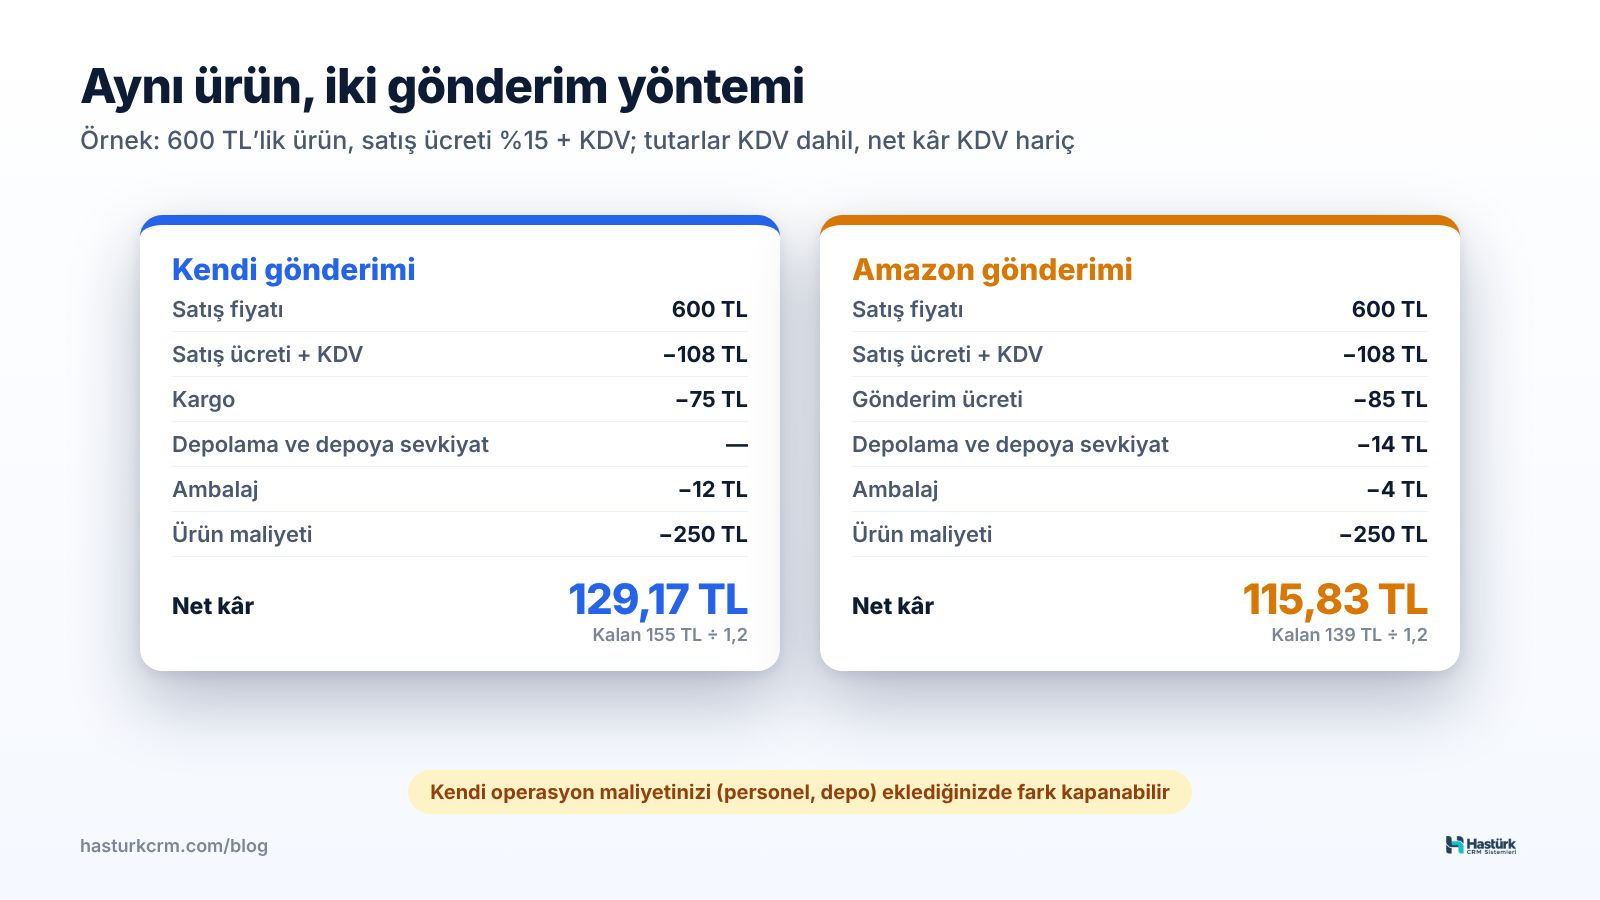
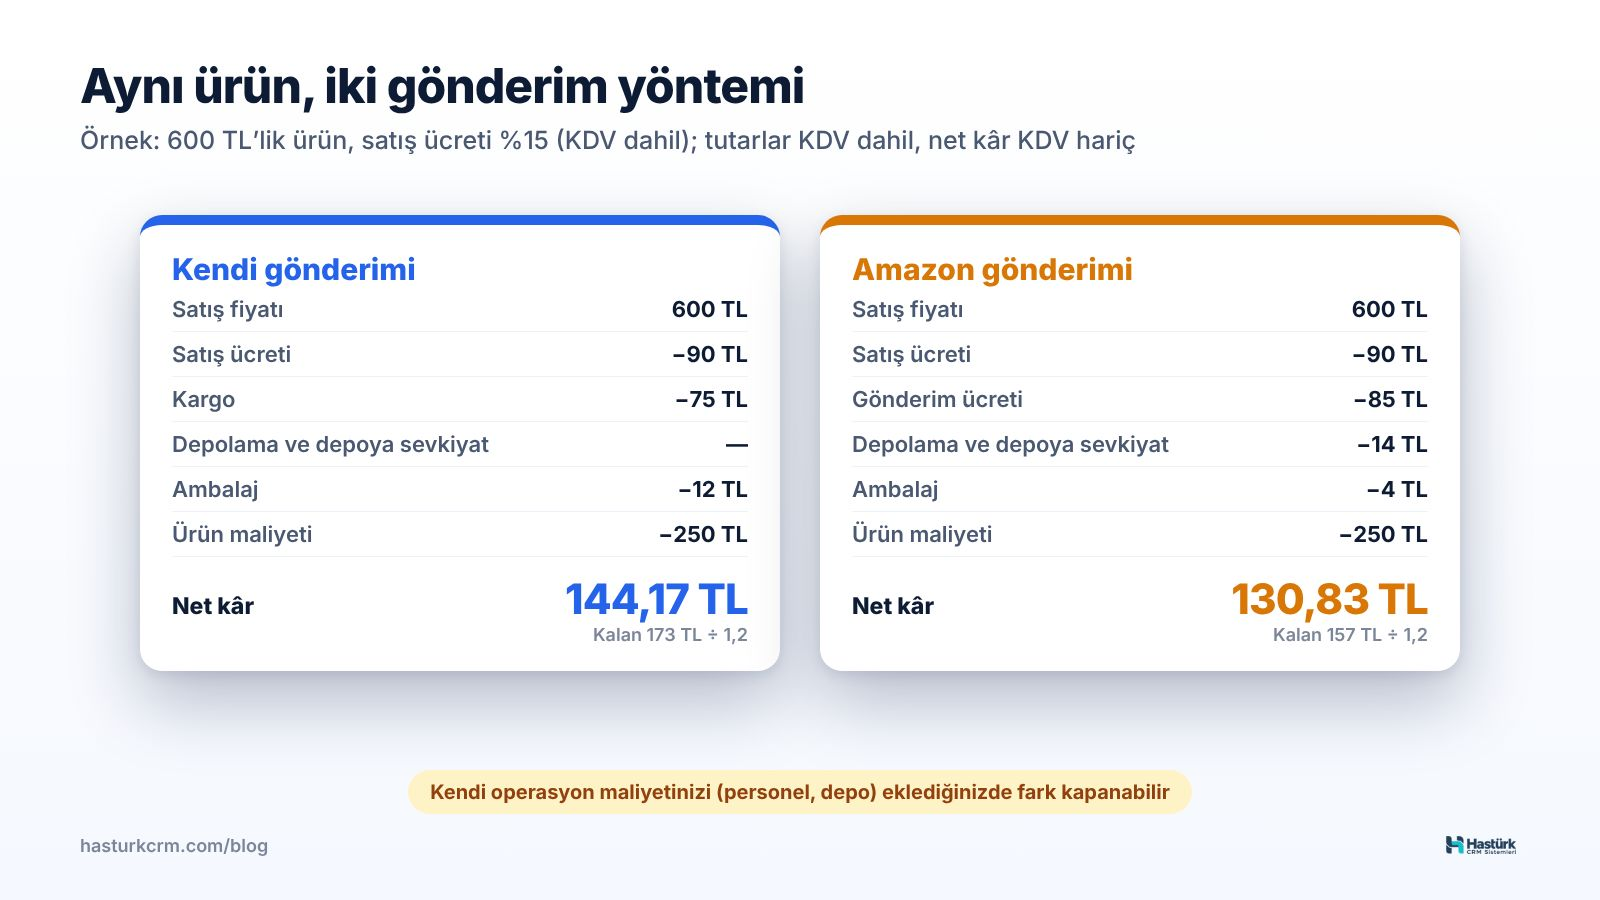
Komisyon KDV dahil (Trendyol, Amazon, Çiçeksepeti); paket / kargo ve takılma düzeltmeleri (#224)
* Ara kayıt: Trendyol, Amazon, Çiçeksepeti komisyon oranı KDV dahil

Claude-Session: https://claude.ai/code/session_01XRDvxG9AZmP7zbj5e9CVqs

* Ara kayıt: sipariş kârı testi Trendyol KDV dahil orana göre

Claude-Session: https://claude.ai/code/session_01XRDvxG9AZmP7zbj5e9CVqs

* Ara kayıt: Amazon / Çiçeksepeti blog hesapları KDV dahil oranla; yayımlanmış yazı düzeltmesi

Claude-Session: https://claude.ai/code/session_01XRDvxG9AZmP7zbj5e9CVqs

* Ara kayıt: Amazon / Çiçeksepeti kâr görselleri (yenileniyor)

Claude-Session: https://claude.ai/code/session_01XRDvxG9AZmP7zbj5e9CVqs

* Ara kayıt: paket / kargo, taşıma işareti, dış istek zaman aşımı ve ödeme başlatma düzeltmeleri

Claude-Session: https://claude.ai/code/session_01XRDvxG9AZmP7zbj5e9CVqs

---------

diff --git a/panel/src/db.js b/panel/src/db.js
@@ -384,6 +384,11 @@ export const MIGRATIONS = [
   // Sistem hızı: istek başına veritabanı sorgu sayısı ve sorguların beklettiği toplam süre (bkz. meter.js)
   'ALTER TABLE perf_stats ADD COLUMN db_n INTEGER NOT NULL DEFAULT 0',
   'ALTER TABLE perf_stats ADD COLUMN db_ms INTEGER NOT NULL DEFAULT 0',
+  // Trendyol, Amazon ve Çiçeksepeti komisyon oranı KDV dahildir (üzerine %20 eklenmez): KDV dahil çevriminde %20 eklenmiş varsayılan
+  // oran kayıtlıysa (elle değiştirilmemişse) eski değerine döner
+  "UPDATE settings SET v = json_set(v, '$.trendyol', 20) WHERE k = 'commission' AND json_valid(v) AND json_extract(v, '$.trendyol') = 24",
+  "UPDATE settings SET v = json_set(v, '$.amazon', 15) WHERE k = 'commission' AND json_valid(v) AND json_extract(v, '$.amazon') = 18",
+  "UPDATE settings SET v = json_set(v, '$.ciceksepeti', 20) WHERE k = 'commission' AND json_valid(v) AND json_extract(v, '$.ciceksepeti') = 24",
 ];
 
 // Tüm tablo adları (ana panelin yerel / ortak veritabanı ayrımı için, bkz. router.js)
@@ -496,7 +501,7 @@ export const DEFAULT_SETTINGS = {
   fx: { source: 'tcmb', kind: 'sell', mode: 'daily', threshold: 0.5, rounding: 'none', margin: 0 },
   // Müşteri sorularına hazır cevaplar
   answer_templates: ['Merhaba, ilginiz için teşekkür ederiz. ', 'Merhaba, ürünümüz stoklarımızda mevcuttur; siparişiniz aynı gün kargoya verilir. İyi günler dileriz.'],
-  commission: { ikas1: 0, ikas2: 0, trendyol: 24, hepsiburada: 21.6, pttavm: 14.4, n11: 18, idefix: 18, pazarama: 18, amazon: 18, ciceksepeti: 24, koctas: 18, shopify: 0, woocommerce: 0, opencart: 0, etsy: 7.8, teknosa: 18, boyner: 24, pasaj: 14.4, trendyolgo: 18, getir: 24, yemeksepeti: 24, ebay: 15.6, ozon: 18, ticimax: 0, ideasoft: 0, tsoft: 0 },
+  commission: { ikas1: 0, ikas2: 0, trendyol: 20, hepsiburada: 21.6, pttavm: 14.4, n11: 18, idefix: 18, pazarama: 18, amazon: 15, ciceksepeti: 20, koctas: 18, shopify: 0, woocommerce: 0, opencart: 0, etsy: 7.8, teknosa: 18, boyner: 24, pasaj: 14.4, trendyolgo: 18, getir: 24, yemeksepeti: 24, ebay: 15.6, ozon: 18, ticimax: 0, ideasoft: 0, tsoft: 0 },
   shipping: { ikas1: 0, ikas2: 0, trendyol: 0, hepsiburada: 0, pttavm: 0 },
   // Tüm gider tutarları KDV dahil girilir (cepten çıkan tutar); üstüne KDV eklenmez. false: eski kurulum (KDV hariç girilmiş, hesapta %20 eklenir)
   costs_vat_incl: true,
@@ -554,6 +559,7 @@ export const DEFAULT_SETTINGS = {
 // kayıtlı komisyon / kargo / hizmet bedeli / ek kesinti ve ürüne elle girilen komisyon 1,2 ile çarpılır (kâr değişmez); kanaldan
 // gelen ilan komisyonu (önceden KDV'si ayrılarak saklanıyordu) de KDV dahile çevrilir. Aynı anda iki istek çevirmesin diye işaret önce alınır.
 const VAT_ONCE = 'once:vat_incl_1', vatDone = new WeakSet();
+const VAT_INCL_RATE = /^(trendyol(?!go)|amazon|ciceksepeti)\d*$/;
 async function vatInclOnce(db, rows) {
   if (vatDone.has(db)) return false;
   if (rows.some((r) => r.k === VAT_ONCE)) { vatDone.add(db); return false; }
@@ -567,15 +573,18 @@ async function vatInclOnce(db, rows) {
       for (const k of ['commission', 'shipping', 'service_fee', 'fee_rate']) {
         const v = get(k);
         if (!v || typeof v !== 'object') continue;
-        const g = Object.fromEntries(Object.entries(v).map(([c, x]) => [c, x === '' || x == null || !Number.isFinite(Number(x)) ? x : Math.round(Number(x) * 120) / 100]));
+        // Trendyol, Amazon, Çiçeksepeti komisyon oranı zaten KDV dahil (çevrilmez)
+        const g = Object.fromEntries(Object.entries(v).map(([c, x]) => [c, x === '' || x == null || !Number.isFinite(Number(x)) || (k === 'commission' && VAT_INCL_RATE.test(c)) ? x : Math.round(Number(x) * 120) / 100]));
         st.push(db.prepare('INSERT INTO settings (k, v) VALUES (?, ?) ON CONFLICT (k) DO UPDATE SET v = excluded.v').bind(k, JSON.stringify(g)));
       }
-      st.push(db.prepare("UPDATE listings SET commission = ROUND(commission * 1.2, 2) WHERE commission IS NOT NULL AND COALESCE(commission_src, 'manual') != 'api'"));
+      st.push(db.prepare(`UPDATE listings SET commission = ROUND(commission * 1.2, 2) WHERE commission IS NOT NULL AND COALESCE(commission_src, 'manual') != 'api'
+        AND NOT (channel LIKE 'trendyol%' AND channel NOT LIKE 'trendyolgo%') AND channel NOT LIKE 'amazon%' AND channel NOT LIKE 'ciceksepeti%'`));
     }
     // Trendyol (Go hariç) ilan oranı, Trendyol çevrimi (once:ty_comm_incl_1, init'te) yapıldıysa zaten KDV dahil sipariş satırından
     // yeniden hesaplandı: bu çevrimden önce açılmamış veritabanında üzerine ikinci kez %20 eklenmesin
     st.push(db.prepare(`UPDATE listings SET commission = ROUND(commission * 1.2, 2) WHERE commission IS NOT NULL AND commission_src = 'api'
-      AND NOT (channel LIKE 'trendyol%' AND channel NOT LIKE 'trendyolgo%' AND EXISTS (SELECT 1 FROM settings WHERE k = 'once:ty_comm_incl_1'))`));
+      AND NOT (channel LIKE 'trendyol%' AND channel NOT LIKE 'trendyolgo%' AND EXISTS (SELECT 1 FROM settings WHERE k = 'once:ty_comm_incl_1'))
+      AND channel NOT LIKE 'amazon%' AND channel NOT LIKE 'ciceksepeti%'`));
     st.push(db.prepare("INSERT INTO settings (k, v) VALUES ('costs_vat_incl', 'true') ON CONFLICT (k) DO UPDATE SET v = excluded.v"));
     await db.batch(st);
     return true;

diff --git a/panel/src/api.js b/panel/src/api.js
@@ -307,6 +307,7 @@ async function orderAction(env, db, id, action, b, ctx, user) {
     return { ok: true, message: r.message };
   }
   if (action === 'split') {
+    if (!live) fail(400, 'Bu siparişte işlem yapılamaz');
     if (o.packages.some((p) => p.carrier_ref && p.status === 'open')) fail(400, 'Kargo entegratöründe gönderisi açılmış paket var; yeniden bölmek için önce paket menüsünden gönderiyi iptal edin');
     const groups = (b.groups || []).map((g) => ({ desi: num(g.desi, 0) || null, items: (g.items || []).map((x) => ({ line_id: String(x.line_id), qty: Math.round(num(x.qty)) })).filter((x) => x.qty > 0) })).filter((g) => g.items.length);
     if (groups.length < 1) fail(400, 'En az bir paket gerekli');
@@ -342,6 +343,7 @@ async function orderAction(env, db, id, action, b, ctx, user) {
     return { ok: true, message: `${groups.length} paket oluşturuldu` };
   }
   if (action === 'cargo') {
+    if (!live) fail(400, 'Bu siparişte işlem yapılamaz');
     // Kargo firması seç / değiştir (seçenekler kanaldan gelir). İsteğe bağlı: bu kanalda varsayılan yap
     const cargo = b.cargo && { id: str(b.cargo.id), name: str(b.cargo.name) };
     if (!cargo || !cargo.name) fail(400, 'Kargo firması seçin');
@@ -391,7 +393,7 @@ async function orderAction(env, db, id, action, b, ctx, user) {
     if (!ch || !ch.enabled || !ch.repack) fail(400, 'Bu kanalda desteklenmiyor');
     if (pkg.status === 'shipped') fail(400, 'Kargoya verilmiş paket yeniden hazırlanamaz');
     const r = await ch.repack(o, pkg);
-    await run(db, "UPDATE packages SET remote_id = ?, remote_status = ?, barcode = '', tracking = '', cargo_company = ?, cargo_code = NULL, agreement = NULL, packed_at = ?, error = ? WHERE id = ?",
+    await run(db, "UPDATE packages SET remote_id = ?, remote_status = ?, barcode = '', tracking = '', cargo_company = ?, cargo_code = NULL, cargo_applied = NULL, agreement = NULL, packed_at = ?, error = ? WHERE id = ?",
       r.remoteId, r.remoteStatus || '', r.cargoCompany || '', Date.now(), r.error || null, pkg.id);
     await clearLabel(db, pkg.id);
     await event(db, o, 'pack', user, `Paket ${pkg.no}: ikas Kargo ile yeniden hazırlandı`);
@@ -404,12 +406,15 @@ async function orderAction(env, db, id, action, b, ctx, user) {
       if (!ch || !ch.enabled || !ch.cancelPackage) fail(400, `${ch ? ch.name : 'Kanal'} paketi API ile iptal edilemiyor; kanal panelinden yapın`);
       await ch.cancelPackage(o, pkg);
     }
-    await run(db, "UPDATE packages SET remote_id = NULL, remote_status = NULL, packed_at = NULL, barcode = '', tracking = '', error = NULL WHERE id = ?", pkg.id);
+    // Seçilen kargo firması tercih olarak kalır (cargo_code), yeni pakete yeniden uygulanır
+    await run(db, "UPDATE packages SET remote_id = NULL, remote_status = NULL, packed_at = NULL, barcode = '', tracking = '', error = NULL, cargo_applied = NULL WHERE id = ?", pkg.id);
     await clearLabel(db, pkg.id);
     await event(db, o, 'cancel-package', user, `Paket ${pkg.no}`);
     return { ok: true, message: `Paket ${pkg.no} paketlemesi iptal edildi` };
   }
   if (action === 'ship') {
+    // Ekran açıkken kanalda iptal / iade / teslim edilmiş siparişte kargo bildirimi yapılmaz
+    if (!live) fail(400, `Sipariş ${o.status === 'cancelled' ? 'iptal edilmiş' : o.status === 'returned' ? 'iade edilmiş' : 'teslim edilmiş'}; kargoya verilemez`);
     o = await ensurePackages(db, ch, o);
     const pkg = b.package_id ? o.packages.find((p) => p.id === Number(b.package_id)) : o.packages.find((p) => p.status === 'open');
     if (!pkg) fail(400, 'Gönderilecek açık paket yok');
@@ -505,6 +510,7 @@ async function orderAction(env, db, id, action, b, ctx, user) {
     return { ok: true };
   }
   if (action === 'label') {
+    if (!live && !o.packages.length) fail(400, 'Bu siparişte işlem yapılamaz'); // kapanmış siparişte yeni paket açılmaz (eski etiket yeniden yazdırılabilir)
     o = await ensurePackages(db, ch, o);
     let pkg = b.package_id ? o.packages.find((p) => p.id === Number(b.package_id)) : o.packages[0];
     if (!pkg) fail(404, 'Paket bulunamadı');
@@ -1572,6 +1578,7 @@ export async function api(req, env, ctx, db, path, user = { id: 0, name: 'Yönet
         let o = await loadOrder(db, id);
         const ch = await channel(env, db, o.channel);
         if (b.fetch && o.status === 'new') { await acceptOrder(db, ch, o, user); o = await loadOrder(db, id); }
+        if (['cancelled', 'returned', 'delivered'].includes(o.status) && !o.packages.some((p) => p.has_label)) throw new Error(`${o.order_number}: iptal / iade / teslim edilmiş sipariş, etiket alınmadı`);
         o = await ensurePackages(db, ch, o);
         const labels = [];
         // Etiket alınırken paketlenmemiş paketler önce kanalda kargoya hazırlanır

diff --git a/panel/src/mainpanel.js b/panel/src/mainpanel.js
@@ -134,7 +134,11 @@ const CHUNK = { product_images: 20 };
 const STEP_MS = 20e3;
 export async function migrateStep(ctx, env, local, now = Date.now) {
   const st = (await ctx.storage.get('mig')) || { ti: 0, after: 0, rows: 0, started: now() };
-  if (st.done) return st;
+  // Bitti ama ana veritabanına "taşındı" işareti yazılamadıysa yeniden denenir (yoksa çalışan eski kopyadan okumaya devam eder)
+  if (st.done) {
+    if (!st.flagged) { await markMigrated(env, st); await ctx.storage.put('mig', st); await edgeDrop(MAIN_FLAG, env.DB).catch(() => {}); }
+    return st;
+  }
   const remote = meter(env.DB), sql = ctx.storage.sql, t0 = now();
   if (!st.ti && !st.after) await init(local);
   const tables = LOCAL_TABLES;
@@ -164,14 +168,20 @@ export async function migrateStep(ctx, env, local, now = Date.now) {
   if (st.ti >= tables.length) {
     st.done = true; st.at = now();
     await ctx.storage.put('mig', st);
-    await env.DB.prepare('INSERT INTO settings (k, v) VALUES (?, ?) ON CONFLICT (k) DO UPDATE SET v = excluded.v').bind(MAIN_FLAG, JSON.stringify({ at: st.at, rows: st.rows, hint: hintOf(env), skipped: st.skipped || [] })).run();
+    await markMigrated(env, st);
+    await ctx.storage.put('mig', st);
     if (st.skipped && st.skipped.length) {
       const { recordError } = await import('./errors.js');
       await recordError(env.DB, { slug: '', firm: '', source: 'server', message: `Ana panel taşıma: ${st.skipped.length} tablonun bir kısmı kopyalanamadı`, action: 'taşıma', detail: { skipped: st.skipped } }).catch(() => {});
     }
     await edgeDrop(MAIN_FLAG, env.DB).catch(() => {});
+    return { ...st, justDone: true };
   }
   return st;
+}
+async function markMigrated(env, st) {
+  await env.DB.prepare('INSERT INTO settings (k, v) VALUES (?, ?) ON CONFLICT (k) DO UPDATE SET v = excluded.v').bind(MAIN_FLAG, JSON.stringify({ at: st.at, rows: st.rows, hint: hintOf(env), skipped: st.skipped || [] })).run();
+  st.flagged = true;
 }
 const pct = (st) => (st.done ? 100 : Math.min(99, Math.round(((st.ti || 0) / Math.max(1, LOCAL_TABLES.length)) * 100)));
 
@@ -200,6 +210,7 @@ export class MainPanel {
     if (this.ok) return true;
     const st = await this.ctx.storage.get('mig');
     if (st && st.done) {
+      if (!st.flagged && !(await this.ctx.storage.getAlarm())) await this.ctx.storage.setAlarm(Date.now()); // işaret yeniden yazılsın
       await backCopy(this.ctx, this.db.remote).catch((e) => console.error('bildirimler ana veritabanına kopyalanamadı', e));
       this.ok = true; this.fresh(); return true;
     }
@@ -213,7 +224,10 @@ export class MainPanel {
     const st = await migrateStep(this.ctx, this.env, this.local).catch((e) => { console.error('ana panel taşıma hatası', e); return null; });
     if (!st) return void (await this.ctx.storage.setAlarm(Date.now() + 30e3));
     if (!st.done) await this.ctx.storage.setAlarm(Date.now() + 50);
-    else { await this.ctx.storage.put('g:notices', Date.now()); this.ok = true; this.fresh(); console.log('ana panel taşındı', JSON.stringify(st)); }
+    else {
+      // Taşıma şimdi bittiyse yerel bildirimler ana veritabanındakinin kopyası: geri kopyalama gerekmez
+      if (st.justDone) await this.ctx.storage.put('g:notices', Date.now());
+      this.ok = true; this.fresh(); console.log('ana panel taşındı', JSON.stringify(st)); }
   }
   async fetch(req) {
     const url = new URL(req.url), env = { ...this.env, DB: this.db };

diff --git a/panel/src/billing.js b/panel/src/billing.js
@@ -137,7 +137,13 @@ async function start(env, db, order, origin) {
   const itemName = order.kind === 'stores' ? `Hastürk CRM ${order.qty} ek mağaza (${order.period} gün)` : order.kind === 'charge' ? `Hastürk CRM ${order.plan || 'abonelik'} ödemesi${Number(order.period) ? ` (${order.period} ay)` : ''}`
     : up ? `Hastürk CRM ${PLANS[up.from].name} → ${PLANS[order.plan].name} paket yükseltme (${up.days} gün)` : '';
   // Taksit kısıtlanmaz: bankanın sunduğu tüm taksit seçenekleri ödeme sayfasında görünür (bkz. plans.js → INSTALLMENTS)
-  const r = await initCheckout(env, { ...order, buyer: JSON.parse(order.buyer), name, ...(itemName ? { itemName } : {}) }, callback);
+  let r;
+  try { r = await initCheckout(env, { ...order, buyer: JSON.parse(order.buyer), name, ...(itemName ? { itemName } : {}) }, callback); } catch (e) {
+    // Ödeme sayfası açılamadı: sipariş "başarısız" (sahipsiz bekleyen kayıt kalmaz), kullanıcıya anlaşılır mesaj (502)
+    const why = /fetch failed|bağlantı hatası|zaman aşımı|network/i.test(String(e.message)) ? 'ödeme sistemine şu an ulaşılamıyor' : String(e.message || 'bilinmeyen hata').slice(0, 200);
+    await run(db, "UPDATE sales_orders SET status = 'failed', error = ?, updated_at = ? WHERE id = ? AND status = 'pending'", why, Date.now(), order.id).catch(() => {});
+    throw new HttpError(502, `Ödeme başlatılamadı: ${why}. Biraz sonra tekrar deneyin.`);
+  }
   await run(db, 'UPDATE sales_orders SET token = ?, updated_at = ? WHERE id = ?', r.token, Date.now(), order.id);
   return { ok: true, url: r.url, order: order.id };
 }
@@ -491,7 +497,7 @@ export async function payLink(req, env) {
   try {
     const r = await start(env, env.DB, { ...o, status: 'pending' }, new URL(req.url).origin);
     return new Response(null, { status: 303, headers: { Location: r.url, 'Cache-Control': 'no-store' } });
-  } catch (e) { return resultPage('Ödeme başlatılamadı', `${esc(e.message)}. Biraz sonra tekrar deneyin.`, { status: 502 }); }
+  } catch (e) { return resultPage('Ödeme başlatılamadı', esc(e instanceof HttpError ? e.message : `${e.message}. Biraz sonra tekrar deneyin.`), { status: 502 }); }
 }
 async function completeCharge(env, order, { method, note }) {
   const buyer = JSON.parse(order.buyer || '{}'), months = Number(order.period) || 0;

diff --git a/panel/src/util.js b/panel/src/util.js
@@ -113,13 +113,17 @@ export async function http(url, { method = 'GET', headers = {}, body: b, timeout
       if (i < tries) { await sleep(800 * i); continue; }
       throw new Error(`${method} ${shortUrl(url)}: bağlantı hatası (${e.name === 'AbortError' ? 'zaman aşımı' : e.message})`);
     }
-    clearTimeout(t);
-    if ((res.status === 429 || res.status >= 500) && i < tries) { await sleep(1500 * i); continue; }
+    if ((res.status === 429 || res.status >= 500) && i < tries) { clearTimeout(t); res.body?.cancel().catch(() => {}); await sleep(1500 * i); continue; }
     if (raw) {
+      clearTimeout(t);
       if (!res.ok) throw new Error(`${method} ${shortUrl(url)}: HTTP ${res.status} ${htmlReason(await res.text(), res.status).slice(0, 300)}`);
       return res;
     }
-    const text = await res.text();
+    // Süre gövde okunana kadar geçerli: başlığı gönderip gövdede duran sunucu senkronu (ve kilidi) asılı bırakmasın
+    let text;
+    try { text = await res.text(); } catch (e) {
+      throw new Error(`${method} ${shortUrl(url)}: yanıt okunamadı (${e.name === 'AbortError' || ctl.signal.aborted ? 'zaman aşımı' : e.message})`);
+    } finally { clearTimeout(t); }
     let data = text;
     if (/json/i.test(res.headers.get('content-type') || '') || /^\s*[[{]/.test(text)) { try { data = JSON.parse(text); } catch { /* düz metin */ } }
     if (!res.ok) {

diff --git a/panel/src/blogseed.js b/panel/src/blogseed.js
@@ -24,8 +24,11 @@ export const REVISIONS = {
[3 lines of base64/hex data omitted]
+  // 2: Amazon komisyon oranı da KDV dahildir (üzerine KDV eklenmez); kontrol listesindeki fatura maddesi sadeleşti
[1 lines of base64/hex data omitted]
 };
-const REV = 'once:blog_rev_1';
+// Yeni düzeltme eklenince sürüm artar: düzeltmeler yeniden taranır (önceki düzeltmeler gövde değiştiği için atlanır)
+export const REV = 'once:blog_rev_2';
 const FIELDS = ['title', 'summary', 'seo_title', 'seo_desc'];
 const sha256 = async (s) => [...new Uint8Array(await crypto.subtle.digest('SHA-256', new TextEncoder().encode(s)))].map((x) => x.toString(16).padStart(2, '0')).join('');
 

diff --git a/panel/src/router.js b/panel/src/router.js
@@ -31,7 +31,7 @@ export function isGlobal(sql) {
 // Ana veritabanına da yazılanlar: ayar ve kanal bağlantısı değişiklikleri. Bu panele özel / anlık ayarlar hariç (şema sürümü,
 // tek seferlik işaretler, kilitler, giriş denemeleri, doğrulama kodları)
 const MIRROR = /^\s*(INSERT|UPDATE|DELETE|REPLACE)\b/i, MIRROR_T = new Set(['settings', 'channel_config']);
-const NO_MIRROR = /schema_v|schema_n|once:|_lock\b|login_fail:|tfa_fail:|mailcode|pwreset|errrep/;
+const NO_MIRROR = /schema_v|schema_n|once:|_lock\b|\block:|login_fail:|tfa_fail:|mailcode|pwreset|errrep/;
 export const mirrorable = (sql, args = []) => MIRROR.test(sql) && refsOf(sql).some((r) => MIRROR_T.has(r))
   && !NO_MIRROR.test(sql + ' ' + args.filter((a) => typeof a === 'string').map((a) => a.slice(0, 80)).join(' '));
 

diff --git a/panel/src/channels/demo.js b/panel/src/channels/demo.js
@@ -236,7 +236,7 @@ export function demo(meta) {
   // Örnek hakediş (Trendyol cari ekstresi / Hepsiburada muhasebe işlemleri gibi): teslim edilen siparişlerin satış, komisyon,
   // indirim, stopaj ve iade kayıtları; ödeme günü (Trendyol: vadenin ardından gelen çarşamba, Hepsiburada: vade günü).
   // Birkaç örnek fark: satıcı kuponu (panelde görünmeyen indirim) ve bir üründe farklı komisyon — mutabakat ekranını denemek için.
-  const STL_RATE = { trendyol: 24, hepsiburada: 21.6 };
+  const STL_RATE = { trendyol: 20, hepsiburada: 21.6 };
   async function settlements(since, until) {
     const D = 864e5, now = Date.now(), rate = STL_RATE[ch] || 20, out = [];
     const r2 = (v) => Math.round(v * 100) / 100;
